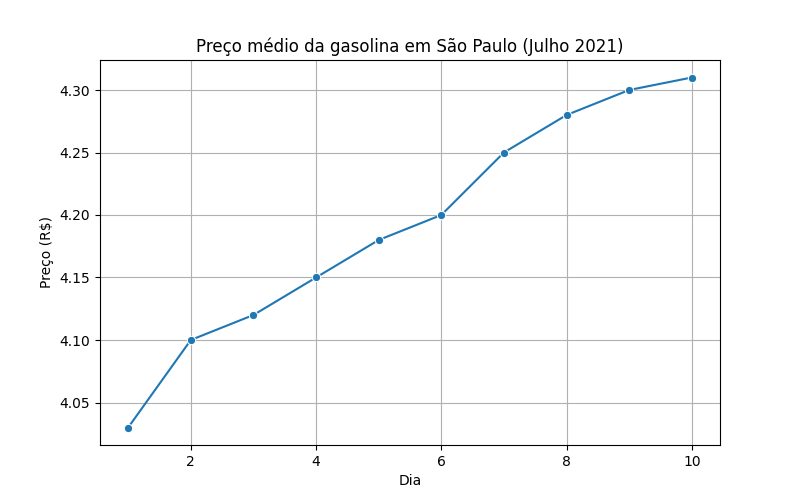
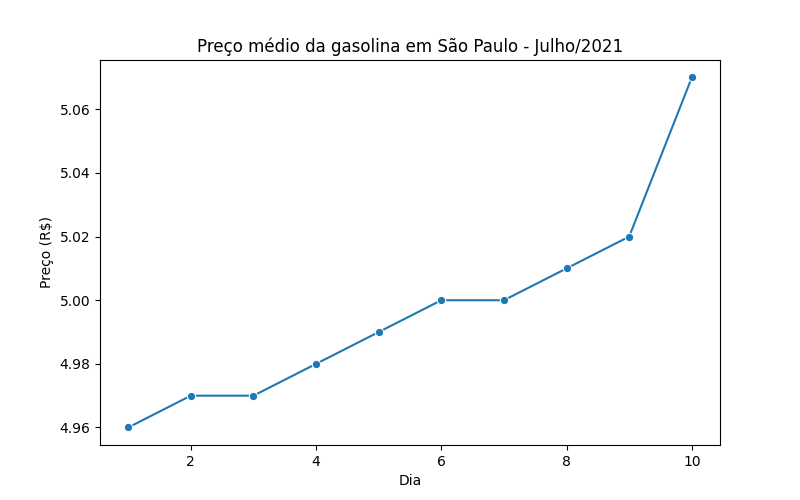
Adiciona gráfico de preço da gasolina

diff --git a/gasolina.py b/gasolina.py
@@ -1,18 +1,20 @@
+
 import pandas as pd
 import seaborn as sns
 import matplotlib.pyplot as plt
 
-# Ler dados
-df = pd.read_csv("gasolina.csv")
+gasolina = pd.DataFrame({
+    'dia': list(range(1, 11)),
+    'venda': [4.96, 4.97, 4.97, 4.98, 4.99, 5.00, 5.00, 5.01, 5.02, 5.07]
+})
 
-# Criar gráfico
+gasolina.to_csv('gasolina.csv', index=False)
+
 plt.figure(figsize=(8,5))
-sns.lineplot(x="dia", y="valor", data=df, marker="o")
-plt.title("Preço médio da gasolina em São Paulo (Julho 2021)")
-plt.xlabel("Dia")
-plt.ylabel("Preço (R$)")
-plt.grid(True)
-
-# Salvar imagem
-plt.savefig("gasolina.png")
+sns.lineplot(x='dia', y='venda', data=gasolina, marker='o')
+plt.title('Preço médio da gasolina em São Paulo - Julho/2021')
+plt.xlabel('Dia')
+plt.ylabel('Preço (R$)')
+plt.savefig('gasolina.png')
 plt.show()
+    
